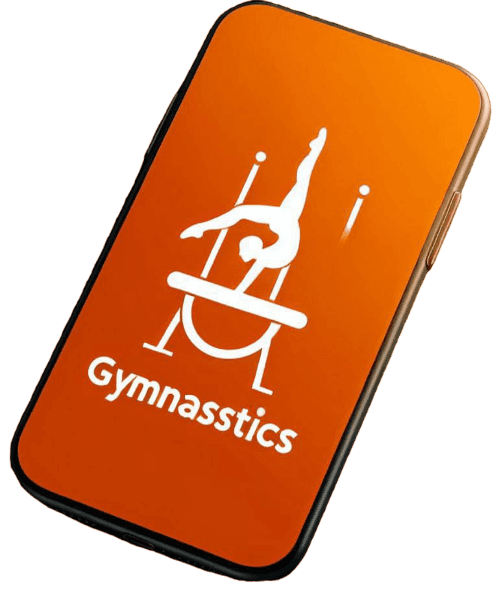
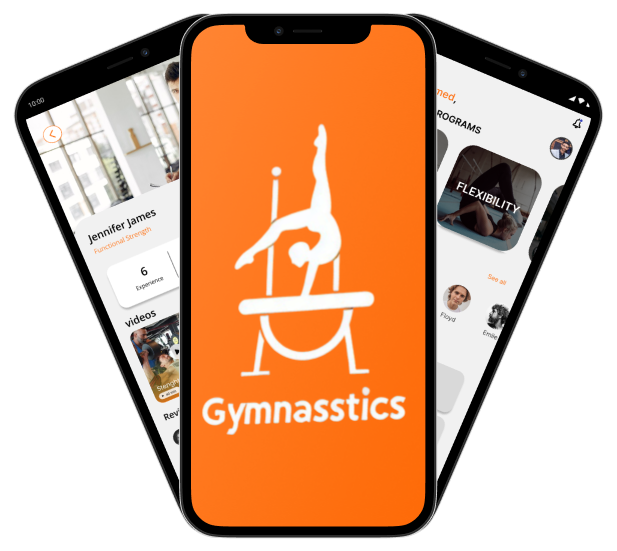
home 2 3 4 edits

diff --git a/client/src/pages/Home.jsx b/client/src/pages/Home.jsx
@@ -2,10 +2,16 @@ import React from 'react'
 import { Link } from 'react-router-dom'
 import Banner from '../assets/banner.png'
 import Cards from '../components/Cards'
+import Rect from '../assets/rect.png'
+import Rectg from '../assets/rectg.png'
+import Screens from'../assets/screens.png'
+import Team from '../assets/team.png'
 import '../index.css'
 import { TypeAnimation } from 'react-type-animation';
 import { Swiper, SwiperSlide } from "swiper/react";
-
+import Home2 from './Home2'
+import Home3 from './Home3'
+import Home4 from './Home4'
 import "swiper/css";
 import "swiper/css/pagination";
 import "swiper/css/free-mode";
@@ -13,43 +19,51 @@ import WorkoutSlider from '../components/workoutSlider';
 import { workouts } from '../data';
 import { FreeMode, Pagination } from "swiper/modules";
 export default function Home() {
+  
   const {title ,icon} =workouts
   return (
 
-    <section className='bg-primary'
-    crosess
-    crosessOffset='lg:translate-y-[5.25rem]'
-    cusstomPaddings
-    id='home'
+    <section className=' home bg-primary grid gap-2  lg:items-center max-lg:items-center md:items-center md:text-left md:items-center+text-left'
+
     >
     
+    <div className='gird lg:grid-cols-2'>
 
-      <div className=' flex z-1 max-w-[500rem] h-100   lg:mb:[2rem] px-40 py-30 '>
+   
+
+      <div className='  '>
 
 
-        <h1 className='py-40 text-4xl font-h1 slogan '>Master your skill by <br /> your personal <br /> trainer coach</h1>
-        <div className=' flex '><img className='' src={Banner} alt="" /></div>
+        <h1 className='  slogan mb-2 font-h1 '>Master your skill by your personal  trainer coach</h1>
 
       </div>
 
 
+      <div>
+      <img className='logo   ' src={Banner} alt="" />
+
+      </div>
+
+      </div>
     
 
 
       {/* الجزء التاني */}
 
-      
+     
 
 
 
 
-
-
+<Home2 />
+<Home3 />
+<Home4 />
 
 
     </section>
 
+    
 
-   
   )
+
 }

diff --git a/client/src/components/Footer.jsx b/client/src/components/Footer.jsx
@@ -1,35 +1,38 @@
 import React from 'react'
 import { Footer, FooterLink } from "flowbite-react";
 import { Link } from 'react-router-dom';
-export default  function FooterCom() {
+export default  function Footer2() {
   return (
-    <Footer container className='border border-t-8 border-teal-700'>
-        <div>
-            <div>
-                <div><Link  to='/' className='self-center whitespace-nowrap text-sm sm:text-xl font-semibold dark:text-white'
+    <Footer container className='footer'>
+         <section className='  grid gap-2 lg:grid-cols-2 md:items-center md:text-left md:items-center+text-left'
+
 >
-    <span className='px-2 py-1 bg-gradient-to-r from-orange-600 via-orange-500 to-orange-400 rounded-lg text-white' >Gym</span>
-     App
-</Link></div>
-        <div className='grid deid-cols-2 gap-3 sm: mt-4 sm:grid-cols-3 sm:gap-6'>
-            <Footer.Title title='About' />
-            <Footer.LinkGroup col>
-                <FooterLink href='https://www.instagram.com/faresssmostafa'
-                target='_blank'
-                >
-                        My Instagram
-                </FooterLink>
+
+  <div className='  '>
+    <h1 className='  slogan mb-2 font-h1 '>Master your skill by your personal  trainer coach</h1>
+
+  </div>
 
 
-                <FooterLink href='https://www.instagram.com/faresssmostafa'
-                target='_blank'
-                >
-                        My TiKTok
-                </FooterLink>
-            </Footer.LinkGroup>
-        </div>
-            </div>
-        </div>
+  <div>
+
+
+  </div>
+
+
+
+
+
+
+  
+
+
+
+
+
+
+
+</section>
     </Footer>
   )
 }

diff --git a/client/src/index.css b/client/src/index.css
@@ -5,44 +5,68 @@
 
 .logo{
 
- width: 40%;
- height: 40%;
- border-radius: 0%;
-  -webkit-transition: -webkit-transform .8s ease-in-out;
-          transition:         transform .8s ease-in-out;
- height: 40%;
-margin: auto;
-padding-top: 20px;
-animation:scale-in-hor-center .5s cubic-bezier(.25,.46,.45,.94) both}
-
-@keyframes scale-in-hor-center{0%{transform:scaleX(0);opacity:1}100%{transform:scaleX(1);opacity:1}}
-
-.banner:hover{
-
-    -webkit-filter: grayscale(100%); /* Safari 6.0 - 9.0 */
-    filter: grayscale(90%);
- transition: 01s ease;  
- 
+ width: 70%;
+ height: 70%;
 }
 
-.typing{
-margin: auto;
-display: flex;
-flex-direction: column;
-align-items: center;
+
+
+
+
+.slogan{
+    color: rgba(255, 255, 255, 0.83);
+    font-size: 2.5rem;
+    line-height: 3rem;
+    text-align: center;
 }
 
-#home{
-    padding-bottom: 10rem;
+
+.features{
+  
+    background-color: white;
     height: 100vh;
     width: 100%;
 }
 
-.slogan{
-    color: white;
-    font-size: 2.5rem;
-    line-height: 3rem;
+
+.sec2{
+    background-color: white;
+margin-top: 20rem;  
+display: block;
 }
 
+.cardImg{
+    width: 30%;
+    height: 30%;
+    display: flex;
+    justify-content: center;
+}
 
+.sec3{
+display: flex;
+justify-content: center;
+}
+
+.sec3 img{
+    margin: auto;
+}
+
+.Home2,.Home2{
+    background-color: white;
+ 
+}
+
+.Home3{
+    background-color: white;
+  
+}
+
+.Home4{
+ margin: auto;
+}
+
+.Home4 img{
+    height: 80%;
+    width: 80%;
+}
 

diff --git a/client/src/pages/Home3.jsx b/client/src/pages/Home3.jsx
@@ -1,0 +1,15 @@
+import React from 'react'
+import Screens from'../assets/screens.png'
+import Team from '../assets/team.png'
+
+function Home3() {
+  return (
+  
+    <div class="Home3">
+  <img src={Team} alt="Your Image" class="" /> 
+</div>
+
+  )
+}
+
+export default Home3;

diff --git a/client/src/pages/Home2.jsx b/client/src/pages/Home2.jsx
@@ -1,0 +1,14 @@
+import React from 'react'
+import Screens from '../assets/screens.png'
+
+function Home2() {
+  return (
+  
+    <div class="Home2">
+  <img src={Screens} alt="Your Image" class="" /> 
+</div>
+
+  )
+}
+
+export default Home2;

diff --git a/client/src/pages/Home4.jsx b/client/src/pages/Home4.jsx
@@ -1,0 +1,14 @@
+import React from 'react'
+import Banner2 from '../assets/Banner2.png'
+
+function Home3() {
+  return (
+  
+    <div class="Home4">
+  <img src={Banner2} alt="Your Image" class="" /> 
+</div>
+
+  )
+}
+
+export default Home3;

diff --git a/client/tailwind.config.js b/client/tailwind.config.js
@@ -18,6 +18,7 @@ export default {
       current: 'currentColor',
       primary:"#222529",
       w:'#00000',
+      orange:"#FE6E0E",
 
       blue: {
         light: '#85d7ff',

diff --git a/client/src/App.jsx b/client/src/App.jsx
@@ -30,7 +30,6 @@ export default function App() {
 
 
    </Routes>
-   <Footer />
    </BrowserRouter>
   )
   }
